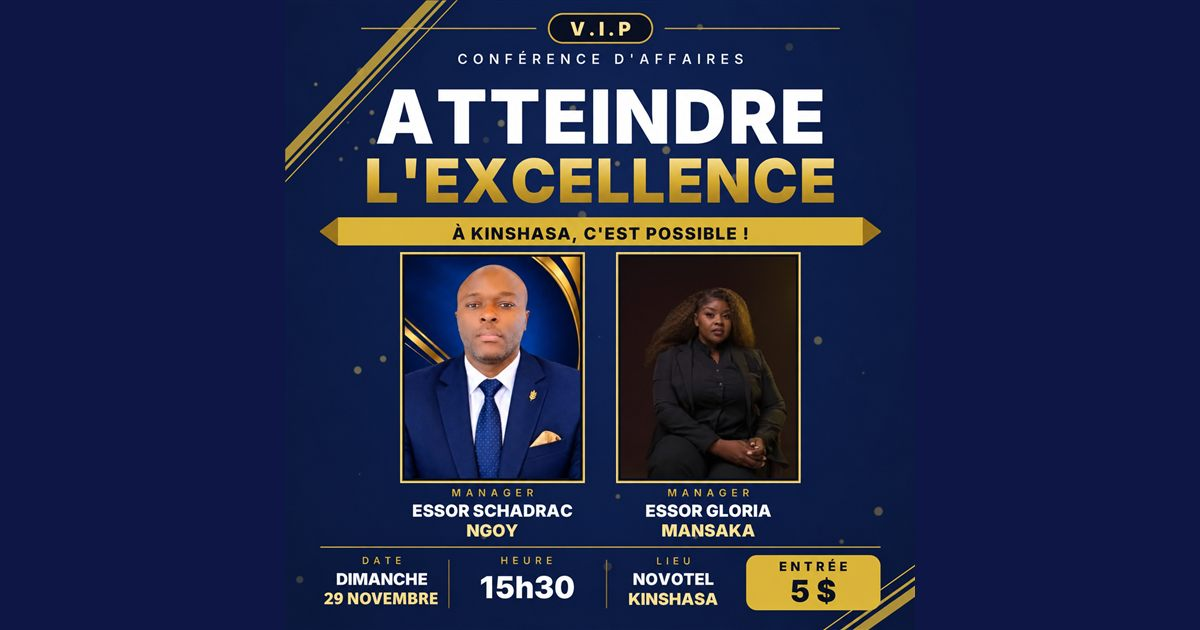
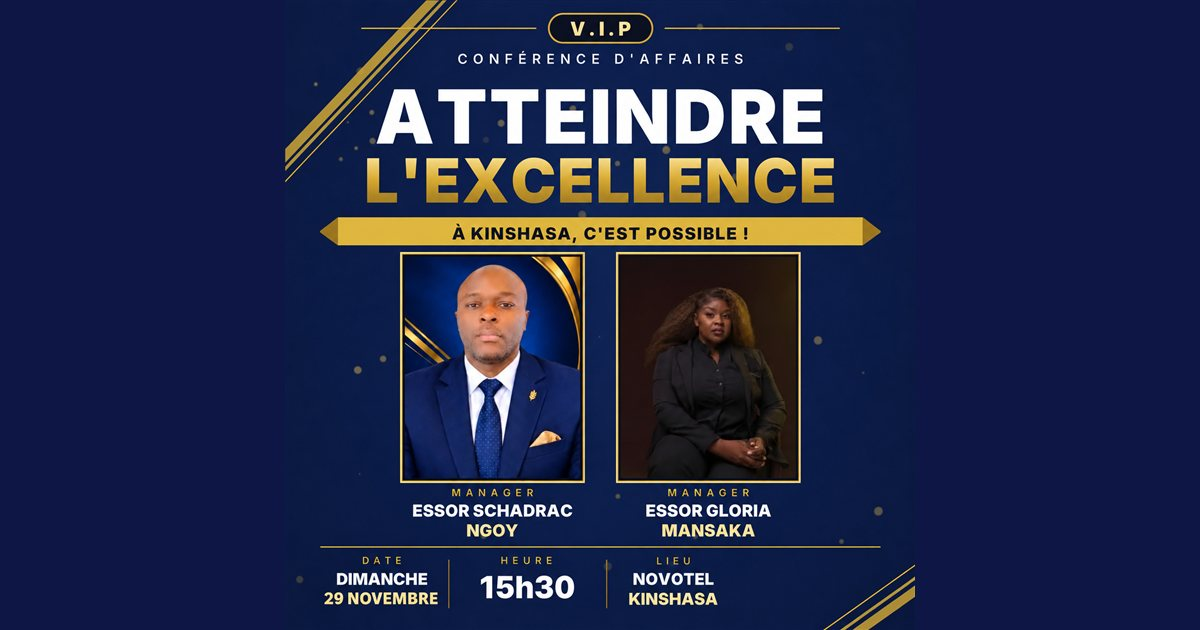
Retirer le droit d'entrée de la page de la conférence
Plus de mention des 5 $ (page, confirmation, agenda, aperçu du lien).
L'aperçu LinkedIn utilise le nouveau visuel sans le prix.

diff --git a/conference/index.html b/conference/index.html
@@ -4,12 +4,12 @@
 <meta charset="utf-8">
 <meta name="viewport" content="width=device-width, initial-scale=1, viewport-fit=cover">
 <title>Atteindre l'excellence · Conférence d'affaires · Kinshasa</title>
-<meta name="description" content="Conférence d'affaires « Atteindre l'excellence » avec les Managers Schadrac Ngoy et Gloria Mansaka. Dimanche 29 novembre 2026 à 15h30, Novotel Kinshasa. Entrée 5 $, sur réservation.">
+<meta name="description" content="Conférence d'affaires « Atteindre l'excellence » avec les Managers Schadrac Ngoy et Gloria Mansaka. Dimanche 29 novembre 2026 à 15h30, Novotel Kinshasa. Sur réservation.">
 <meta name="theme-color" content="#0B1546">
 <meta property="og:type" content="website">
 <meta property="og:locale" content="fr_CD">
 <meta property="og:title" content="Atteindre l'excellence · Conférence d'affaires à Kinshasa">
-<meta property="og:description" content="Dimanche 29 novembre à 15h30, Novotel Kinshasa. Avec les Managers Schadrac Ngoy et Gloria Mansaka. Entrée 5 $, réservez votre place.">
+<meta property="og:description" content="Dimanche 29 novembre à 15h30, Novotel Kinshasa. Avec les Managers Schadrac Ngoy et Gloria Mansaka. Réservez votre place.">
 <meta property="og:url" content="https://business.succexhub.com/conference/">
 <meta property="og:image" content="https://business.succexhub.com/assets/og-conference.jpg">
 <meta property="og:image:width" content="1200">
@@ -92,7 +92,6 @@ input:focus, select:focus { outline: none; border-color: var(--gold); box-shadow
 .check input { width: 22px; min-height: 22px; height: 22px; margin-top: 2px; flex: none; accent-color: var(--gold); }
 .err { color: var(--err); font-size: .9rem; margin: 6px 0 0; min-height: 0; }
 .err:empty { display: none; }
-.pay { background: rgba(217,174,74,.14); border: 1px solid rgba(217,174,74,.5); border-radius: 10px; padding: 12px 14px; font-weight: 600; }
 .done { max-width: 560px; }
 .done h3 { font-size: 1.5rem; margin: 0 0 10px; color: var(--ok); }
 .done p { margin: 0 0 12px; }
@@ -137,7 +136,7 @@ if (window.SX_LI_PARTNER) {
           <li><b>Date</b><span>Dimanche 29 novembre</span></li>
           <li><b>Heure</b><span>15h30</span></li>
           <li><b>Lieu</b><span>Novotel Kinshasa</span></li>
-          <li><b>Entrée</b><span>5 $ sur place</span></li>
+          <li><b>Accès</b><span>Sur réservation</span></li>
         </ul>
         <a class="btn" href="#reserver">Réserver ma place</a>
         <p class="note">Réservation en 1 minute. Nous vous appelons le samedi 28 novembre pour confirmer votre place.</p>
@@ -226,7 +225,6 @@ if (window.SX_LI_PARTNER) {
             </select>
           </div>
         </div>
-        <p class="pay" id="cf-pay">Entrée : 5 $ par personne, à payer sur place à l'arrivée.</p>
         <label class="check"><input type="checkbox" id="cf-ok" required aria-describedby="cf-ok-err"> J'accepte d'être appelé(e) par l'équipe Succexhub pour confirmer ma place.</label>
         <p class="err" id="cf-ok-err"></p>
         <button class="btn" type="submit" id="cf-send">Réserver ma place</button>
@@ -236,7 +234,7 @@ if (window.SX_LI_PARTNER) {
       <div class="done" id="done" hidden tabindex="-1">
         <h3>C'est noté, <span id="d-prenom"></span> !</h3>
         <p>Votre réservation pour <b><span id="d-places"></span></b> à la conférence <b>« Atteindre l'excellence »</b> est enregistrée.</p>
-        <p>📅 Dimanche 29 novembre 2026 à 15h30<br>📍 Novotel Kinshasa<br>💵 Entrée : <span id="d-total"></span>, à payer sur place</p>
+        <p>📅 Dimanche 29 novembre 2026 à 15h30<br>📍 Novotel Kinshasa</p>
         <p>📞 Nous vous appellerons le <b>samedi 28 novembre</b> au <b id="d-tel"></b> pour confirmer votre place. Gardez votre téléphone à portée de main.</p>
         <p><a class="btn alt" id="d-cal" target="_blank" rel="noopener">Ajouter à mon agenda</a></p>
       </div>
@@ -275,11 +273,7 @@ if (window.SX_LI_PARTNER) {
   var form = document.getElementById('cf');
   if (Date.now() > CLOSE_AT) { form.hidden = true; document.getElementById('closed').hidden = false; }
 
-  var places = document.getElementById('cf-places'), pay = document.getElementById('cf-pay');
-  places.addEventListener('change', function () {
-    var n = +places.value;
-    pay.textContent = 'Entrée : 5 $ par personne, à payer sur place à l\'arrivée' + (n > 1 ? ' (' + (5 * n) + ' $ pour ' + n + ' personnes).' : '.');
-  });
+  var places = document.getElementById('cf-places');
 
   function setErr(id, msg) { document.getElementById(id + '-err').textContent = msg || ''; var i = document.getElementById(id); if (i) i.setAttribute('aria-invalid', msg ? 'true' : 'false'); }
   function phone() {
@@ -328,17 +322,16 @@ if (window.SX_LI_PARTNER) {
       utm_content: attr.utm_content || '', utm_term: attr.utm_term || '',
       page_url: location.href.slice(0, 300), user_agent: navigator.userAgent.slice(0, 300)
     });
-    track('Lead', { content_name: 'Conference 29/11', value: 5 * n, currency: 'USD' });
+    track('Lead', { content_name: 'Conference 29/11' });
     trackLi();
 
     document.getElementById('d-prenom').textContent = prenom;
     document.getElementById('d-places').textContent = n + (n > 1 ? ' places' : ' place');
-    document.getElementById('d-total').textContent = (5 * n) + ' $' + (n > 1 ? ' (5 $ par personne)' : '');
     document.getElementById('d-tel').textContent = tel.replace(/^\+243(\d{2})(\d{3})(\d{4})$/, '+243 $1 $2 $3');
     document.getElementById('d-cal').href = 'https://calendar.google.com/calendar/render?action=TEMPLATE'
       + '&text=' + encodeURIComponent('Conférence « Atteindre l\'excellence »')
       + '&dates=20261129T143000Z/20261129T173000Z'
-      + '&details=' + encodeURIComponent('Avec les Managers Essor Schadrac Ngoy et Gloria Mansaka. Entrée 5 $ par personne, à payer sur place.')
+      + '&details=' + encodeURIComponent('Avec les Managers Essor Schadrac Ngoy et Gloria Mansaka.')
       + '&location=' + encodeURIComponent('Novotel Kinshasa');
     setTimeout(function () {
       form.hidden = true;
